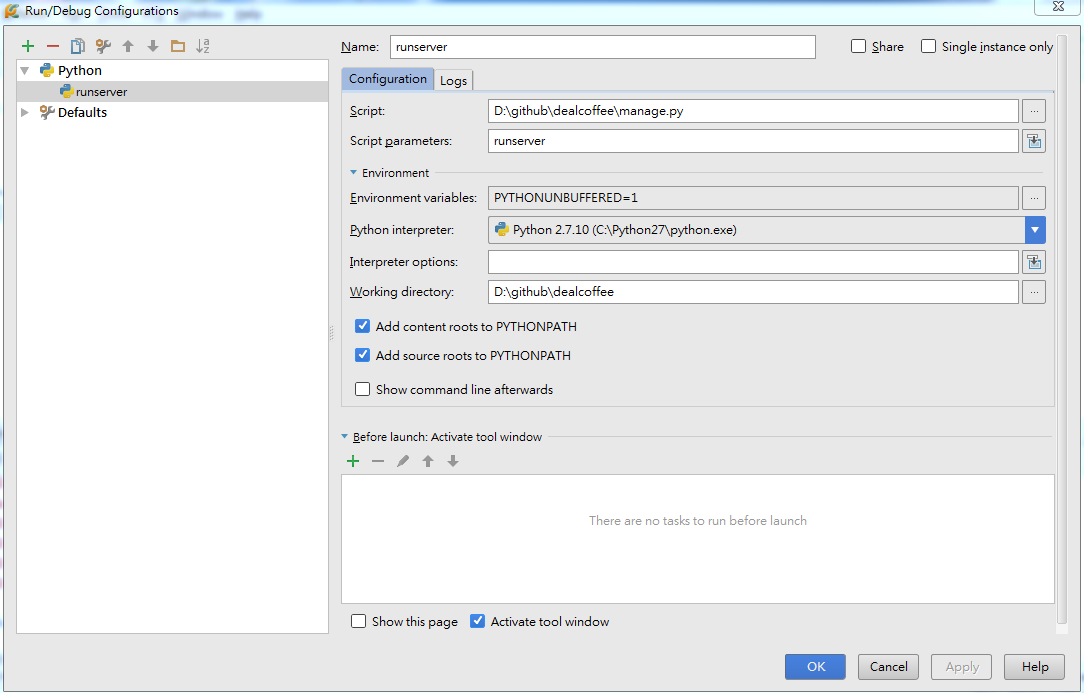
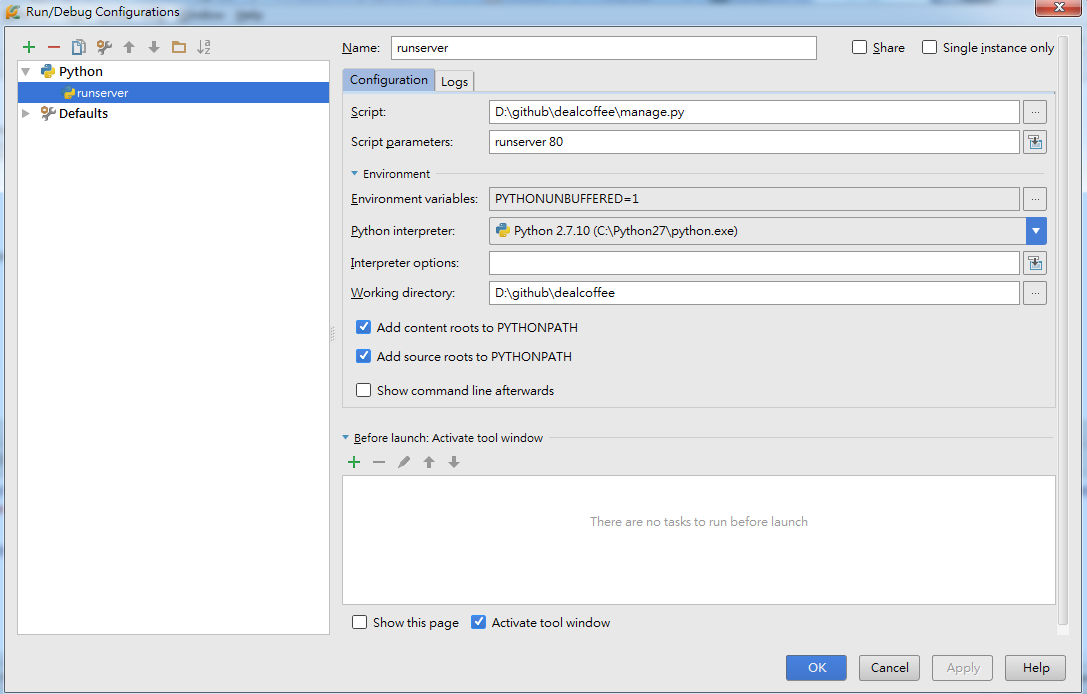
add runserver_plus
add runserver_plus

diff --git a/dealbean/settings.py b/dealbean/settings.py
@@ -27,6 +27,9 @@ DEBUG = True
 
 ALLOWED_HOSTS = []
 
+#runserver_plus definition: http://django-extensions.readthedocs.org/en/latest/runserver_plus.html
+RUNSERVERPLUS_SERVER_ADDRESS_PORT = '127.0.0.1:443'
+RUNSERVERPLUS_POLLER_RELOADER_INTERVAL = 5
 
 # Application definition
 
@@ -45,6 +48,7 @@ INSTALLED_APPS = (
     'bsmain',
 
     # customize
+    'django_extensions', # django_extensions: https://github.com/django-extensions/django-extensions
     'widget_tweaks', # for customize <input
     'django.contrib.sites', # use for allauth
     'allauth',

diff --git a/dealbean/test_gunicorn.py b/dealbean/test_gunicorn.py
@@ -1,0 +1,7 @@
+def app(environ, start_response):
+      data = b"Hello, World!\n"
+      start_response("200 OK", [
+          ("Content-Type", "text/plain"),
+          ("Content-Length", str(len(data)))
+      ])
+      return iter([data])
